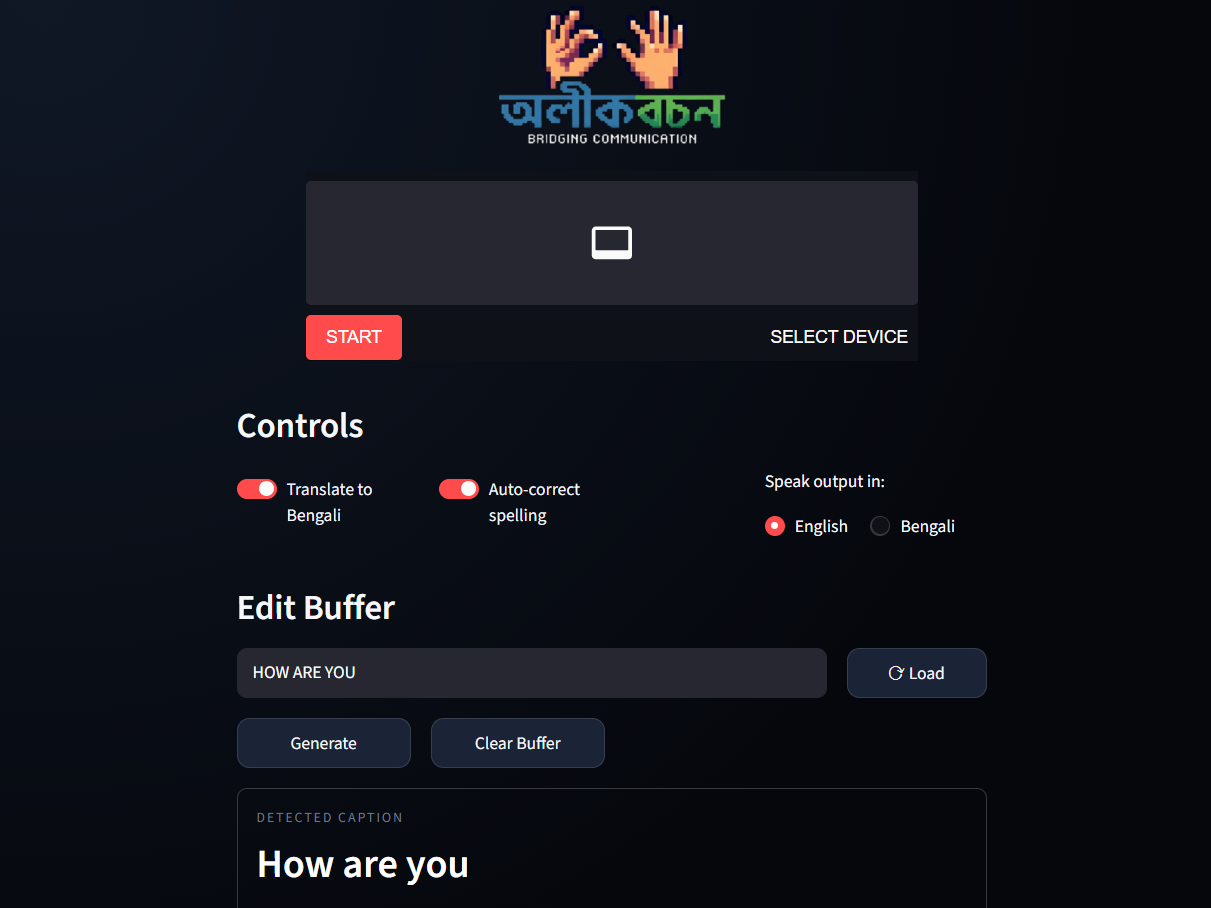
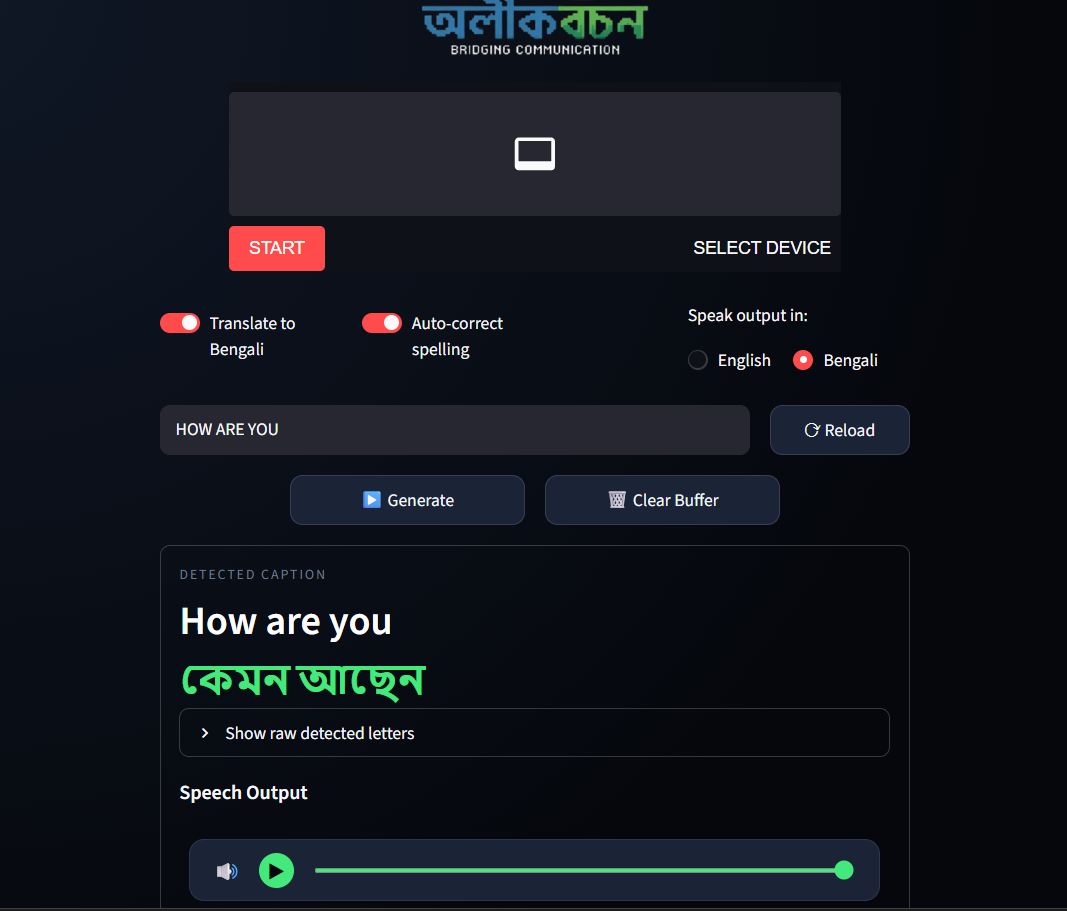
Updated README.md and UI preview

diff --git a/README.md b/README.md
@@ -12,6 +12,10 @@
   <img alt="scikit-learn" src="https://img.shields.io/badge/scikit--learn-RandomForest-F7931E?logo=scikitlearn&logoColor=white">
 </p>
 
+<p align="center">
+  <a href="https://olikbochon.streamlit.app/"><b>Live demo — olikbochon.streamlit.app</b></a>
+</p>
+
 ---
 
 ## Overview
@@ -23,7 +27,7 @@ The project is organized as two complementary parts:
 1. **Application runtime** (`app.py`, `core/`) — real-time inference, an editable letter buffer, captioning, translation, and speech synthesis.
 2. **Data and model pipeline** (`process/`) — standalone scripts for dataset collection, dataset construction, and classifier training, allowing the bundled model to be reproduced or retrained from scratch.
 
-The project is built entirely on free and open-source components: no paid APIs, no cloud ML services, and no API keys are required to run it.
+The project is built entirely on free and open-source components: no paid APIs, no cloud ML services, and no API keys are required to run it. A hosted build is live at **[olikbochon.streamlit.app](https://olikbochon.streamlit.app/)**.
 
 ---
 
@@ -46,7 +50,7 @@ Detection loop (recv() callback, per frame)
 Pause detection → word boundary inserted
   │
   ▼
-Editable letter buffer (⟳ Load, manual add/edit/remove)
+Editable letter buffer (⟳ Reload, manual add/edit/remove)
   │
   ▼
 NLP pipeline
@@ -114,6 +118,7 @@ Olikbochon/
 │       └── 0 ... 25/            # 26 class-wise folders of training images
 ├── Dockerfile
 ├── .dockerignore
+├── packages.txt
 ├── pyproject.toml
 ├── requirements.txt
 ├── uv.lock
@@ -122,7 +127,7 @@ Olikbochon/
 
 | Module | Responsibility |
 |---|---|
-| `app.py` | Streamlit entry point — page setup, camera-first WebRTC layout, inline controls, editable letter buffer, output rendering |
+| `app.py` | Streamlit entry point — page setup, camera-first WebRTC layout, dynamic TURN/STUN selection, inline controls, editable letter buffer, output rendering |
 | `core/sign_detector.py` | Hand-landmark extraction and model-inference bridge; also returns a confidence score |
 | `core/video_processor.py` | Per-frame WebRTC callback — debounce logic, live caption overlay, thread-safe buffer and detection-log handling |
 | `core/nlp_pipeline.py` | Text cleanup, optional spell correction, optional Bengali translation |
@@ -141,7 +146,7 @@ Olikbochon/
 
 **2. Buffering.** `core/video_processor.py` only commits a letter once it repeats for `STABLE_FRAMES = 15` consecutive frames (~0.5 s), preventing duplicate spam. After `RESET_FRAMES = 20` frames (~0.7 s) with no hand detected, a space is inserted as a word boundary. Each commit is logged with a timestamp and confidence score, guarded by a thread-safe lock since `recv()` runs on its own WebRTC thread.
 
-**3. Editing.** The committed buffer can be loaded (via **⟳ Load**) into an editable text field — the actual source of truth for generation — so letters can be corrected, added, or removed by hand, or typed directly without the camera.
+**3. Editing.** The committed buffer can be loaded (via **⟳ Reload**) into an editable text field — the actual source of truth for generation — so letters can be corrected, added, or removed by hand, or typed directly without the camera.
 
 **4. NLP.** `core/nlp_pipeline.py` lower-cases and normalizes whitespace, optionally spell-corrects word-by-word with `pyspellchecker` (skipped if **Auto-correct spelling** is off), capitalizes the result, and optionally translates it to Bengali via `deep-translator`. A failed translation falls back to a visible "Translation unavailable" message instead of crashing the app.
 
@@ -220,13 +225,26 @@ The image exposes port `8501` and includes a `HEALTHCHECK` against Streamlit's `
 
 ---
 
+## Deployment
+
+The hosted build at **[olikbochon.streamlit.app](https://olikbochon.streamlit.app/)** runs on Streamlit Community Cloud. Two deployment-specific pieces support that:
+
+- **`packages.txt`** — the apt packages Community Cloud installs before launching the app (`libgl1`, `libgles2`, `libegl1`, `ffmpeg`, and related OpenCV/MediaPipe runtime libraries), mirroring the system dependencies in the `Dockerfile`.
+- **Dynamic ICE servers** (`get_ice_servers()` in `app.py`) — a STUN-only configuration isn't enough on Community Cloud, since it (like many restrictive networks) blocks direct peer-to-peer WebRTC traffic. `app.py` now requests a TURN relay: it uses Twilio's Network Traversal Service if `TWILIO_ACCOUNT_SID` / `TWILIO_AUTH_TOKEN` are set as Streamlit secrets or environment variables, and otherwise falls back to the free Open Relay Project TURN server plus a Google STUN server.
+
+This logic runs the same way locally and in Docker, so self-hosted deployments benefit from it automatically; setting Twilio credentials is optional but recommended for more reliable connectivity than the shared free relay.
+
+---
+
 ## Usage guide
+
+Try it instantly at **[olikbochon.streamlit.app](https://olikbochon.streamlit.app/)**, or run it locally:
 
 1. **Start the camera.** Click **Start** below the video panel.
 2. **Fingerspell letters.** Hold each hand shape steady for about half a second; the live caption bar shows what's been captured so far.
 3. **Pause between words.** Briefly drop your hand out of frame to insert a word boundary.
 4. **Set your options.** Toggle **Translate to Bengali**, toggle **Auto-correct spelling**, and choose a speech language.
-5. **Load and edit the buffer.** Click **⟳ Load** to pull camera-detected letters into the editable **Edit Buffer** field — type, backspace, or paste to add or fix letters; this field is what actually gets processed.
+5. **Load and edit the buffer.** Click **⟳ Reload** to pull camera-detected letters into the editable buffer field — type, backspace, or paste to add or fix letters; this field is what actually gets processed.
 6. **Generate.** Click **Generate** to normalize, optionally spell-correct, optionally translate, and synthesize speech.
 7. **Review.** The caption (and Bengali translation, if enabled) appears in the **Detected Caption** card, with the custom audio player below. Expand **"Show raw detected letters"** for a per-letter table with timestamp and confidence.
 8. **Start over.** Click **Clear Buffer** to reset everything.
@@ -240,7 +258,8 @@ The image exposes port `8501` and includes a `HEALTHCHECK` against Streamlit's `
 | `STABLE_FRAMES` | `core/video_processor.py` | `15` | Frames a letter must hold steady before commit |
 | `RESET_FRAMES` | `core/video_processor.py` | `20` | Frames with no hand before inserting a word boundary |
 | `MODEL_URL` | `core/sign_detector.py` | Google's hosted `hand_landmarker` (float16) | Fallback download for `hand_landmarker.task` |
-| `RTC_CONFIGURATION` | `app.py` | Public Google STUN server | WebRTC connectivity; add a TURN server for restrictive networks |
+| `TWILIO_ACCOUNT_SID` / `TWILIO_AUTH_TOKEN` | Streamlit secrets or env vars | Unset | Optional — routes WebRTC through Twilio's TURN service instead of the free public relay |
+| `RTC_CONFIGURATION` | `app.py` (`get_ice_servers()`) | Google STUN + Open Relay Project TURN (free fallback) | WebRTC connectivity for restrictive networks, including Streamlit Community Cloud |
 
 No API keys are required — translation and speech synthesis both use free, unauthenticated endpoints.
 
@@ -258,14 +277,15 @@ No API keys are required — translation and speech synthesis both use free, una
 | Speech | [`gTTS`](https://github.com/pndurang/gTTS) | Free MP3 speech synthesis |
 | Training only | [`matplotlib`](https://matplotlib.org/) | Imported by `process/create_dataset.py`; not pinned as a dependency |
 | Deployment | [`Docker`](https://www.docker.com/) | Containerized runtime via the included `Dockerfile`, dependencies synced with `uv` |
+| Hosting | [Streamlit Community Cloud](https://streamlit.io/cloud) | Live deployment at [olikbochon.streamlit.app](https://olikbochon.streamlit.app/), configured via `packages.txt` |
 
 ---
 
 ## Troubleshooting
 
 - **Camera doesn't start / black video panel.** Confirm browser camera permission; `streamlit-webrtc` requires HTTPS or `localhost`.
-- **Connection fails when deployed remotely.** The app only configures a public STUN server by default; add a TURN server to `RTC_CONFIGURATION` in `app.py`.
-- **"No letters to work with yet."** Click **⟳ Load** first, or type letters directly into the Edit Buffer.
+- **Connection stuck on "Connection is taking longer than expected."** This happens when both the built-in TURN fallback and Twilio (if configured) are unreachable — check your network's outbound UDP/TCP rules, or set `TWILIO_ACCOUNT_SID`/`TWILIO_AUTH_TOKEN` for a more reliable relay.
+- **"No letters to work with yet."** Click **⟳ Reload** first, or type letters directly into the editable buffer.
 - **No audio plays.** Browsers often block autoplay with sound; use the custom player's play button.
 
 ---